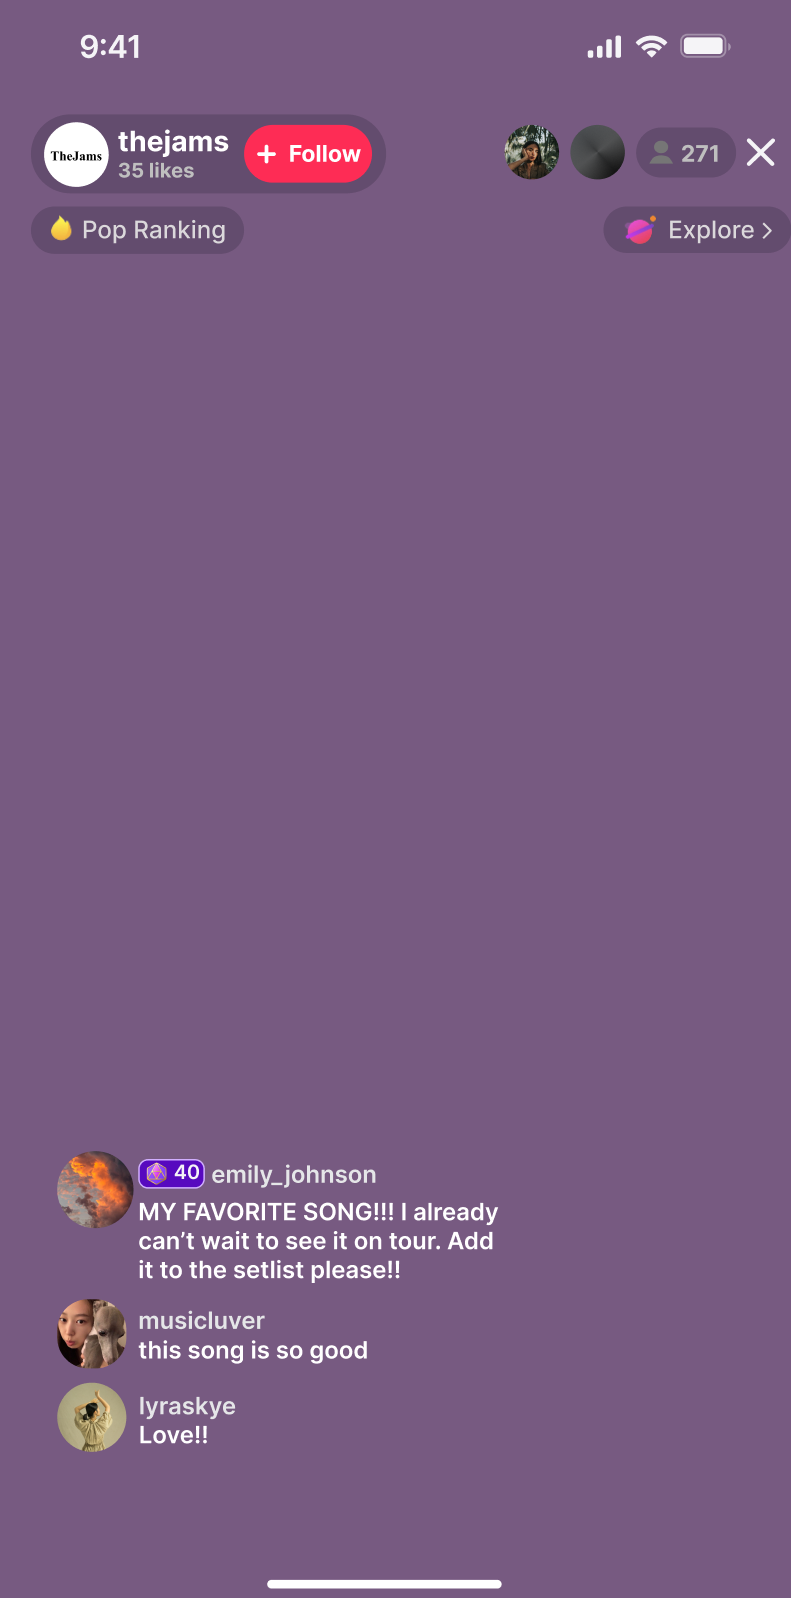
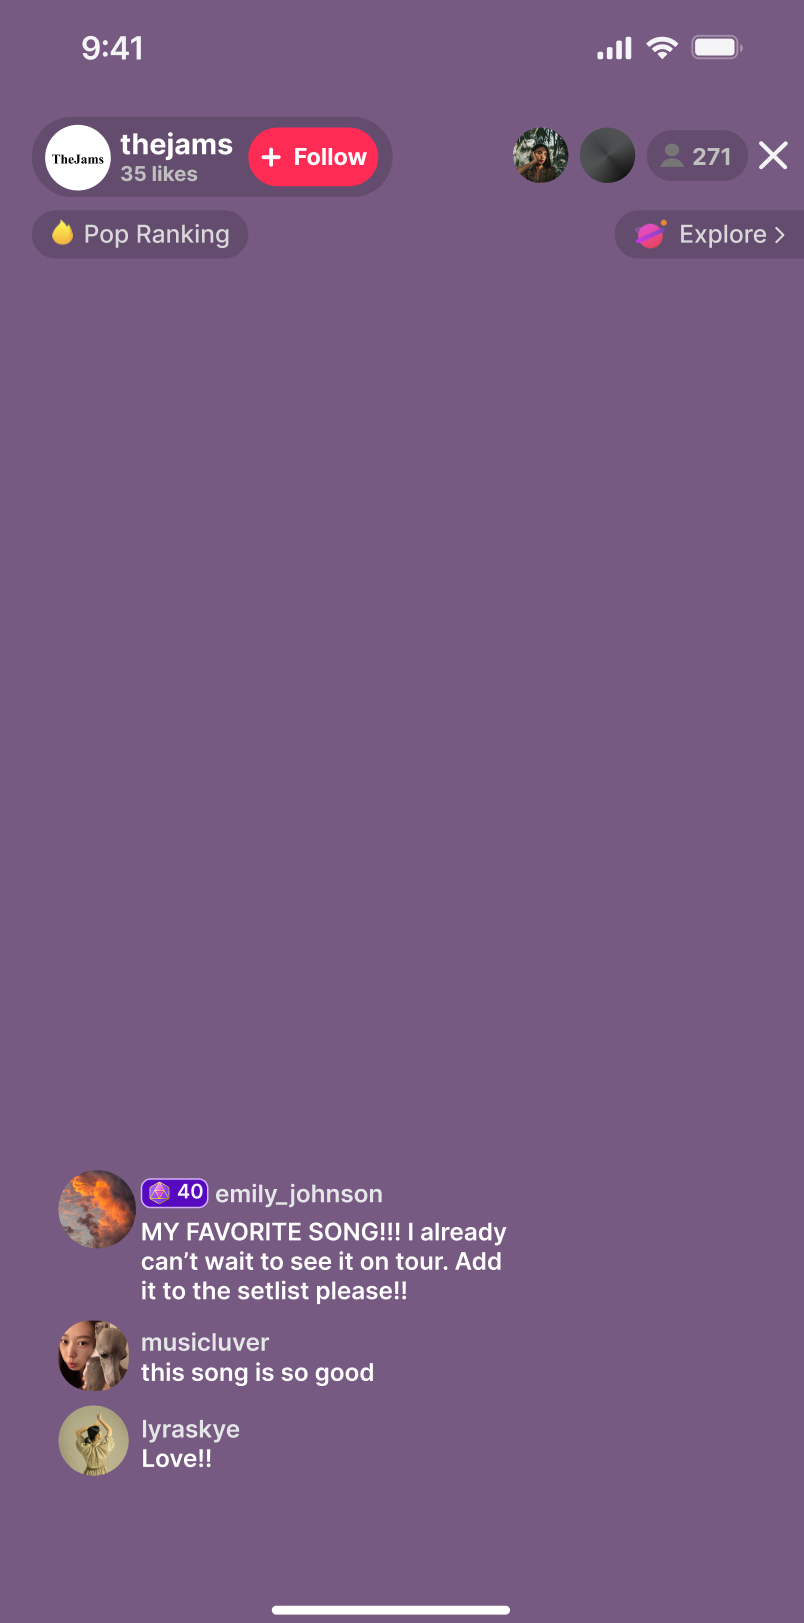
changed article picture, date to Jul 7, positions of code, and code backgrounds

diff --git a/src/components/ListeningParty.svelte b/src/components/ListeningParty.svelte
@@ -189,7 +189,6 @@
         border-radius: 15px;
         background-color: rgba(22,22,34,0.2);
         box-sizing: border-box;
-        color: white;
     }
 
     .comment-box::placeholder {
@@ -278,15 +277,15 @@
 
     .back-button {
         position: absolute;
-        top: 35px;
-        left: 270px;
+        top: 48px;
+        left: 5px;
         cursor: pointer;
     }
 
     .album-cover-lyrics {
         position: absolute;
-        top: 55px;
-        left: 30px;
+        top: 50px;
+        left: 33px;
         width: 50px;
     }
 
@@ -296,8 +295,8 @@
         font-size: 12px;
         color: rgba(255,255,255,1);
         position: absolute;
-        top: 53px;
-        left: 90px;
+        top: 48px;
+        left: 92px;
     }
 
     .song-name {
@@ -306,8 +305,8 @@
         font-size: 12px;
         color: rgba(255,255,255,1);
         position: absolute;
-        top: 53px;
-        left: 167px;
+        top: 48px;
+        left: 169px;
     }
 
     .album-name {
@@ -316,8 +315,8 @@
         font-size: 12px;
         color: rgba(255,255,255,1);
         position: absolute;
-        top: 68px;
-        left: 90px;
+        top: 65px;
+        left: 92px;
     }
 
     .song-lyrics {
@@ -326,7 +325,7 @@
         font-size: 13px;
         color: rgba(48,27,48,1);
         position: absolute;
-        top: 100px;
+        top: 97px;
         height: 455px;
         overflow-y: auto;
         scrollbar-width: none;

diff --git a/src/components/App.svelte b/src/components/App.svelte
@@ -69,11 +69,11 @@
     <div class="authors">
       By Cristina De La Torre, Sophia Fang, Carmen Truong, and Kathleen Nguyen
       <div class="date">
-        Jul 1, 2024
+        Jul 7, 2024
       </div>
     </div>
     
-    <img class="promo" src="temp-img.png" alt="Promo"/>
+    <img class="promo" src="music_discovery.png" alt="Promo"/>
 
     <p class="article">
       Last year, so and so artist something. And this is a big issue, many other artists are labeled one hit wonders. 

diff --git a/src/components/Boosting.svelte b/src/components/Boosting.svelte
@@ -7,7 +7,7 @@
   
 
 <div class = "phone-container">
-    <img class = "listening-screen" src = "test.png" alt="phone screen"/>
+    <img class = "listening-screen" src = "behind_boost.png" alt="phone screen"/>
     <Modal {playlist} {cooldowns}></Modal>
 </div>
 
